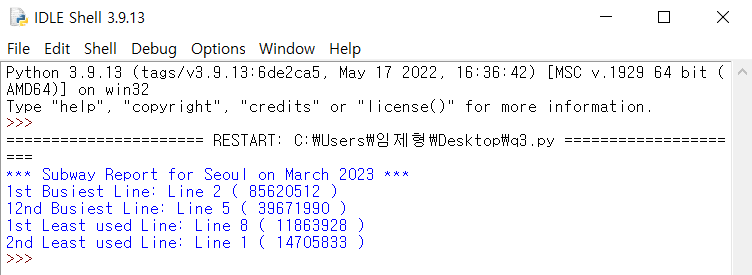
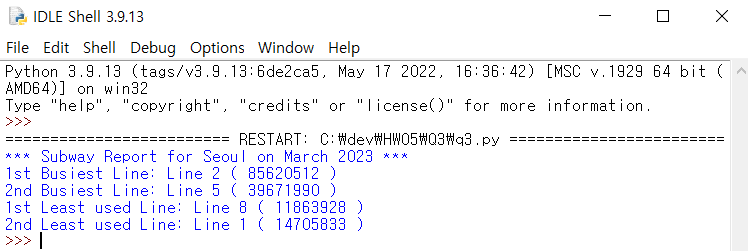
Modified files(final)

diff --git a/Q3/q3.py b/Q3/q3.py
@@ -73,7 +73,7 @@ def main():
             
     print("*** Subway Report for Seoul on March 2023 ***")
     print("1st Busiest Line: Line",max_h1,"(",max_1,")")
-    print("12nd Busiest Line: Line",max_h2,"(",max_2,")")
+    print("2nd Busiest Line: Line",max_h2,"(",max_2,")")
     print("1st Least used Line: Line",min_h1,"(",min_1,")")
     print("2nd Least used Line: Line",min_h2,"(",min_2,")")
     f.close()
